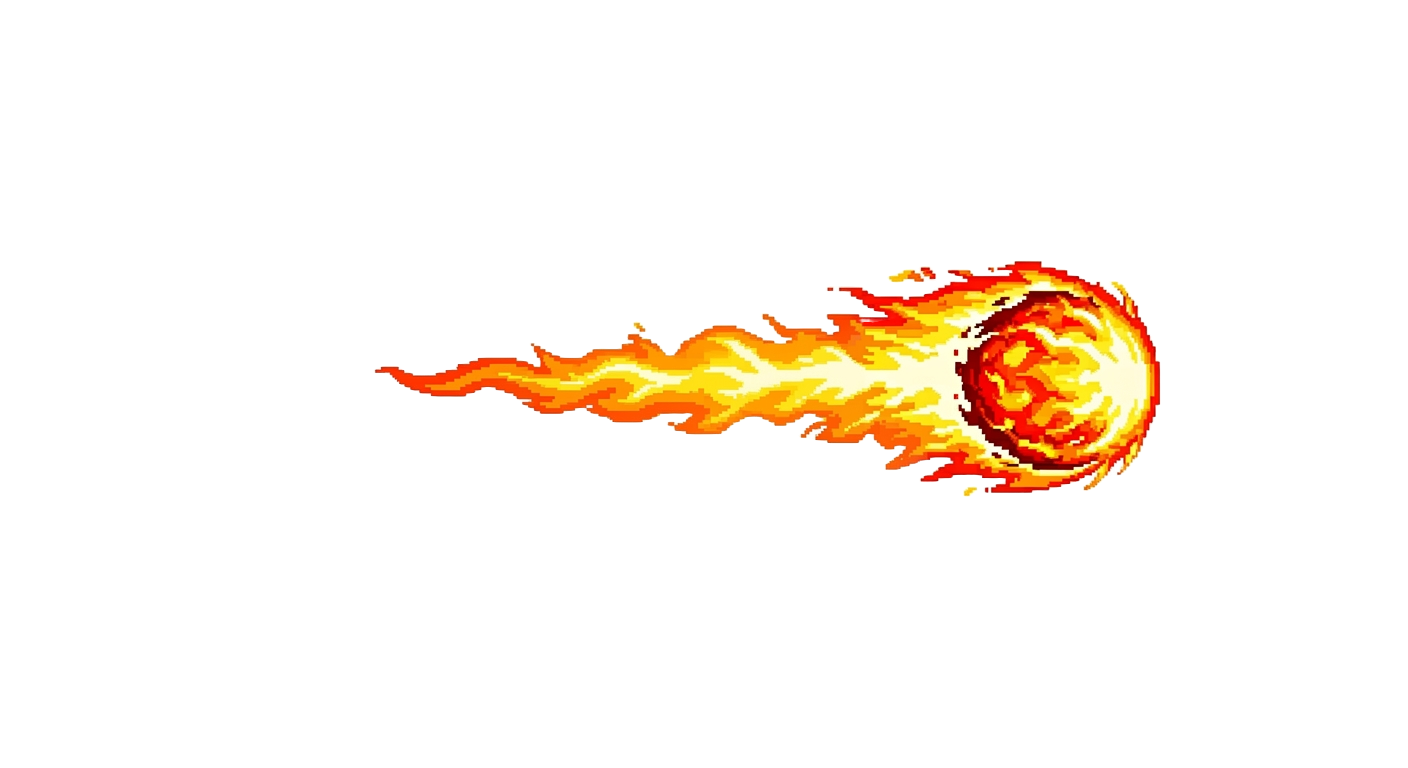
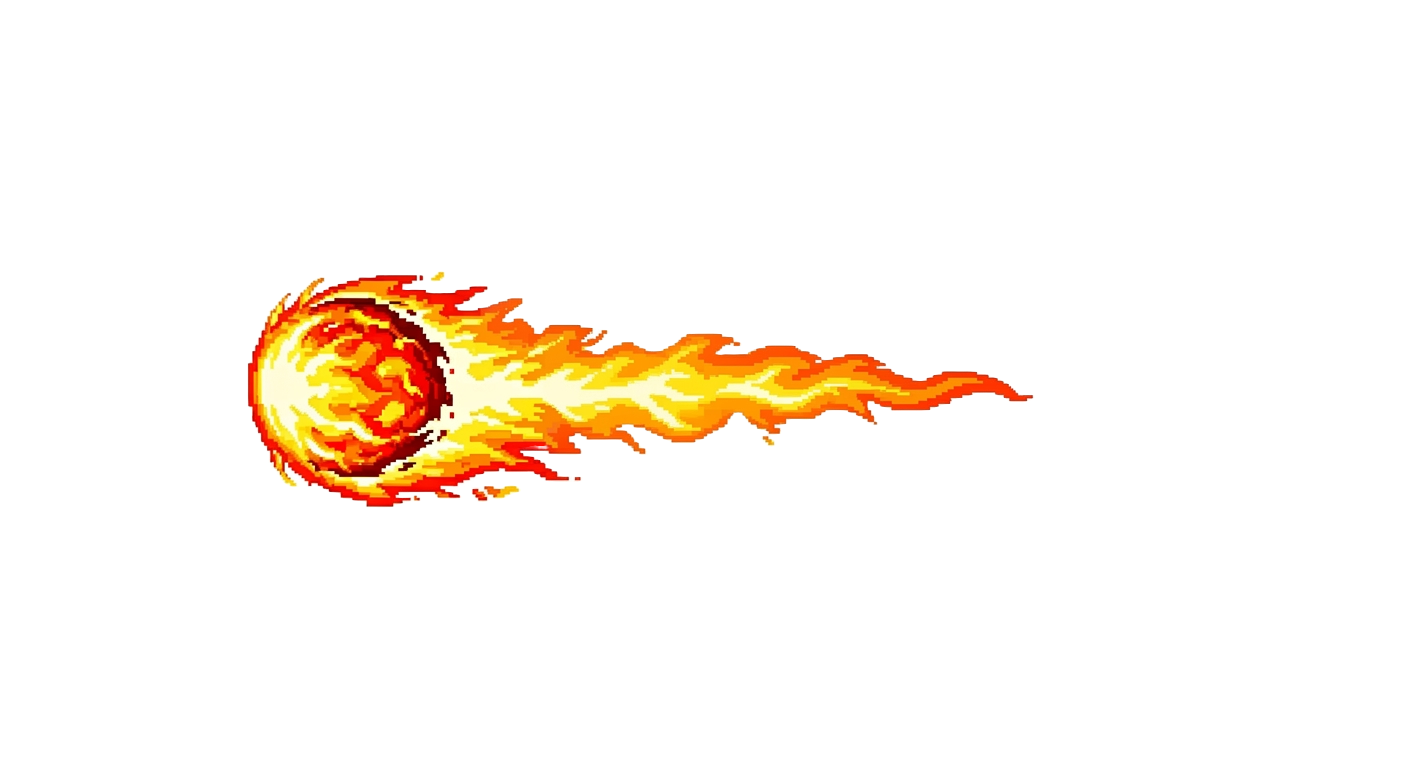
ref: dragon attack animation

Changed region(s): [[0.1562, 0.3438, 0.8438, 0.6562]]

diff --git a/resources/css/app.css b/resources/css/app.css
@@ -198,7 +198,7 @@
     }
     /* stretches as it accelerates */
     20% {
-        transform: translateX(calc(var(--fireball-travel, -200px) * 0.2))
+        transform: translateX(calc(var(--fireball-travel, -200px) * 0.1))
             scaleX(1.4) scaleY(0.75);
         opacity: 1;
     }
@@ -209,12 +209,24 @@
         opacity: 1;
     }
     /* impact — squash and burst */
-    85% {
+    80% {
         transform: translateX(var(--fireball-travel, -200px)) scaleX(0.6)
             scaleY(1.5);
-        opacity: 0.9;
+        opacity: 1;
     }
-    /* dissipates on landing */
+    /* brief hold at squash peak so it reads clearly */
+    88% {
+        transform: translateX(var(--fireball-travel, -200px)) scaleX(0.6)
+            scaleY(1.5);
+        opacity: 1;
+    }
+    /* collapse inward — horizontal pinches first, avoids the stretch artifact */
+    95% {
+        transform: translateX(var(--fireball-travel, -200px)) scaleX(0)
+            scaleY(1.5);
+        opacity: 0.6;
+    }
+    /* fully gone */
     100% {
         transform: translateX(var(--fireball-travel, -200px)) scaleX(0)
             scaleY(0);
@@ -330,15 +342,16 @@
     animation: dragon-charge 0.5s ease-in forwards;
 }
 
-/* Fireball element — position it absolutely near the dragon's mouth */
+/* Fireball element — forwards keeps it invisible after animation ends */
 .animate-fireball {
     animation:
-        fireball-travel 0.6s cubic-bezier(0.4, 0, 0.2, 1),
+        fireball-travel 0.6s cubic-bezier(0.4, 0, 0.2, 1) forwards,
         fireball-flicker 0.15s linear infinite;
 }
 
 /* Knight taking a fireball hit */
 .animate-knight-hit {
+    transform-origin: right center;
     animation:
         knight-hit 0.75s cubic-bezier(0.36, 0.07, 0.19, 0.97),
         knight-burn-flash 0.75s ease-out;

diff --git a/resources/js/Pages/BattleView.vue b/resources/js/Pages/BattleView.vue
@@ -64,17 +64,14 @@ onMounted(async () => {
                         </div>
                     </div>
 
-                    <span
+                    <img
                         v-if="fireballVisible"
                         :class="fireballClass"
-                        class="absolute -rotate-180"
-                    >
-                        <img
-                            src="/public/images/fireball.png"
-                            class="h-[20rem]"
-                            alt="fireball"
-                        />
-                    </span>
+                        src="/public/images/fireball.png"
+                        alt="fireball"
+                        class="absolute right-[15%] top-1/2 -translate-y-1/2 h-50 pointer-events-none"
+                        style="--fireball-travel: -60vw"
+                    />
 
                     <!-- Right Character -->
                     <div